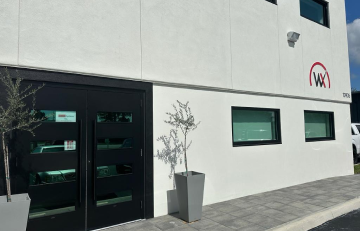
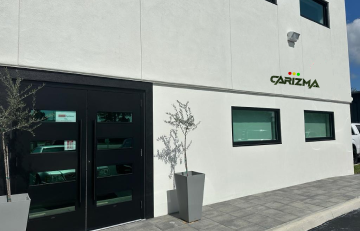
fix: Bugs updated with Images

Changed region(s): [[0.7333, 0.2727, 0.9167, 0.3939], [0.9472, 0.3939, 0.9778, 0.4242]]

diff --git a/src/app/home/home.component.html b/src/app/home/home.component.html
@@ -125,23 +125,20 @@
   <div [@slideIn2]="animationState" class="slide-container">
           <div class="margin-top-62">
             <h2 class="how-it-works-header">Get your <span class="step2ColoredText">best price</span></h2>
-            <p class="black-color how-it-works-text">Receive a no-hassle offer that is good for up to 7 days. All we need is some simple
-              documentation.</p>
+            <p class="black-color how-it-works-text">Receive a no-hassle offer that is good for up to 7 days. All we need is information about your Car.</p>
           </div>
           <br /><br />
         </div>
         <div [@slideIn3]="animationState" class="slide-container">
           <div class="margin-top-62">
             <h2 class="how-it-works-header">We pick it, You <span class="step3ColoredText">get paid</span></h2>
-            <p class="black-color how-it-works-text">Our designated pickup affiliate will perform a brief inspection, issue you a check and
-              properly tow
-              away your vehicle.</p>
+            <p class="black-color how-it-works-text">Our team member will hand you a check and pick up your car</p>
           </div>
           </div>
-          <div class="d-flex align-items-center mt-20 hoverLink" (click)="navigate('how-we-work')">
+          <!-- <div class="d-flex align-items-center mt-20 hoverLink" (click)="navigate('how-we-work')">
             <h5 style="font-weight: bold;" class="text-format-open-sans" >UNDERSTAND THE PROCESS BETTER</h5>
             <mat-icon class="ml-2 arrowicon">arrow_right_alt</mat-icon>
-          </div>
+          </div> -->
         </div>
       </div>
       <div>
@@ -207,7 +204,7 @@
   <div class="d-flex justify-content-center">
     <img class="dots " src="../../../assets/images/threeDotsWithoutBackground.png" alt="dots" />
   </div>
-  <h5 class="howItWorksText mt-5 text-format-montserrat">NATION WIDE SERVICES</h5>
+  <h5 class="howItWorksText mt-5 text-format-montserrat">NATIONWIDE SERVICES</h5>
   <mat-grid-list cols="3" rowHeight="3:2" style="margin: 0 6rem;">
     <img class="servicesFlag" src="../../../assets/images/nationWideServicesflag.png" alt="services" />
     <mat-grid-tile [colspan]="1" [rowspan]="2" class="servicesBlock1">
@@ -386,7 +383,7 @@
   <!--  Section Title -->
   <div class="container-fluid section-title" data-aos="fade-up">
     <h2 class="text-format-montserrat">Contact</h2>
-    <p class="text-format-open-sans">Contact us get started</p>
+    <!-- <p class="text-format-open-sans">Contact us get started</p> -->
   </div><!-- End Section Title -->
 
   <div class="container-fluid" data-aos="fade-up" data-aos-delay="100">
@@ -408,7 +405,7 @@
           <div class="col-md-6">
             <div class="info-item" data-aos="fade" data-aos-delay="300">
               <i class="bi bi-telephone"></i>
-              <h3 class="text-format-montserrat">Call Us</h3>
+              <h3 class="text-format-montserrat">Call / Text Us</h3>
               <p class="text-format-open-sans">(813) 240-4086</p>
             </div>
           </div><!-- End Info Item -->
@@ -417,7 +414,7 @@
             <div class="info-item" data-aos="fade" data-aos-delay="400">
               <i class="bi bi-envelope"></i>
               <h3 class="text-format-montserrat">Email Us</h3>
-              <p class="text-format-open-sans">carizma@carizma.com</p>
+              <p class="text-format-open-sans">info@Carizma.com</p>
             </div>
           </div><!-- End Info Item -->
 

diff --git a/src/app/navigation/footer/footer.component.html b/src/app/navigation/footer/footer.component.html
@@ -142,7 +142,7 @@
           <!-- <h1>Append</h1>
           <span>.</span> -->
         </a>
-        <p class="color text-format-open-sans">Best place to sell your car</p>
+        <p class="color text-format-open-sans">Driving value to your car</p>
         <div class="social-links d-flex mt-4" style="color: white">
           <a href="" class="color"><i class="bi bi-twitter"></i></a>
           <a href="" class="color"><i class="bi bi-facebook"></i></a>
@@ -166,9 +166,9 @@
       <div class="col-lg-2 col-6 footer-links">
         <h4 class="color text-format-montserrat">How It works</h4>
         <ul>
-          <li><a class="color text-format-open-sans" href="#">Tell us about your car</a></li>
-          <li><a class="color text-format-open-sans" href="#">Get best price</a></li>
-          <li><a class="color text-format-open-sans" href="#">We pick it, You get paid</a></li>
+          <li><p class="color text-format-open-sans">Tell us about your car</p></li>
+          <li><p class="color text-format-open-sans">Get best price</p></li>
+          <li><p class="color text-format-open-sans">We pick it, You get paid</p></li>
         </ul>
       </div>
 

diff --git a/src/app/common/about/about.component.html b/src/app/common/about/about.component.html
@@ -1,6 +1,6 @@
 <div class="container-fluid">
     <div class="d-flex justify-content-center">
-        <p class="aboutUsHeader text-format-montserrat">About Carizma - Your Premier Car Buyer in Any Condition</p>
+        <p class="aboutUsHeader text-format-montserrat">About Carizma - Your Premier Car Buyer</p>
     </div>
     <img class="groupImg" src="../../../assets/images/aboutUsGroupImg.jpg" alt="group" />
     <div class="align-items-center mb-5 row">
@@ -76,7 +76,7 @@
         </div>
     </div>
     <div style="margin-top: 48px;">
-        <p class="joinFamilyHeader text-format-montserrat">Join the Carizma Family</p>
+        <p class="joinFamilyHeader text-format-montserrat">Try Carizma Experience</p>
         <div class="d-flex justify-content-center" style="margin-top: 16px; margin-bottom: 24px;">
             <p class="joinFamilyText col-md-6 mb-3 text-format-open-sans">Discover the ease and convenience of selling
                 your car with Carizma. Whether you're upgrading to a new

diff --git a/src/app/common/how-we-work/how-we-work.component.html b/src/app/common/how-we-work/how-we-work.component.html
@@ -4,13 +4,13 @@
         <div style="margin-top:3rem">
             <span class="headerText text-format-montserrat">Selling your car with Carizma is as easy as 1-2-3. </span>
             <span class="headerText text-format-montserrat"> We've streamlined the process to make it </span>
-            <span class="headerText text-format-montserrat">convenient, transparent, and rewarding.</span>
+            <span class="headerText text-format-montserrat">convenient, transparent, and easy.</span>
         </div>
     </div>
     <div class="body">
         <div class='d-flex'>
             <div class="col-xs-6 col-md-6 d-flex justify-content-center mt-8">
-                <img class="images" src="../../../assets/images/car.png" alt="car" />
+                <img class="images" src="../../../assets/images/car-how-work.png" alt="car" />
             </div>
             <div class="col-xs-1 col-md-1 mt-5">
                 <img src="../../../assets/images/number1.png" alt="one" />

diff --git a/src/app/sell-car/sell-car-home/sell-car-home.component.html b/src/app/sell-car/sell-car-home/sell-car-home.component.html
@@ -534,7 +534,7 @@
   <!--  Section Title -->
   <div class="container section-title" data-aos="fade-up">
     <h2>Contact</h2>
-    <p>Contact us get started</p>
+    <!-- <p>Contact us get started</p> -->
   </div><!-- End Section Title -->
 
   <div class="container" data-aos="fade-up" data-aos-delay="100">
@@ -556,7 +556,7 @@
           <div class="col-md-6">
             <div class="info-item" data-aos="fade" data-aos-delay="300">
               <i class="bi bi-telephone"></i>
-              <h3>Call Us</h3>
+              <h3>Call / Text Us</h3>
               <p>+1 5589 55488 55</p>
               <p>+1 6678 254445 41</p>
             </div>

diff --git a/src/app/common/about/about.component.ts b/src/app/common/about/about.component.ts
@@ -1,11 +1,21 @@
-import { Component } from '@angular/core';
+import { Component, OnInit } from '@angular/core';
 
 @Component({
   selector: 'app-about',
   templateUrl: './about.component.html',
   styleUrls: ['./about.component.css']
 })
-export class AboutComponent {
+
+export class AboutComponent implements OnInit {
+
+  ngOnInit(): void {
+    window.scroll({ 
+      top: 0, 
+      left: 0, 
+      behavior: 'smooth' 
+    });
+  }
+  
   getBestPrice(){
     console.log('get best price')
   }

diff --git a/src/app/common/how-we-work/how-we-work.component.css b/src/app/common/how-we-work/how-we-work.component.css
@@ -9,8 +9,8 @@
     margin-right: 40px;
 }
 .headerText{
-    font-size: 3rem;
-    font-weight: 800;
+    font-size: 2.5rem;
+    font-weight: 700;
 }
 .body{
     margin-top: 5rem;
